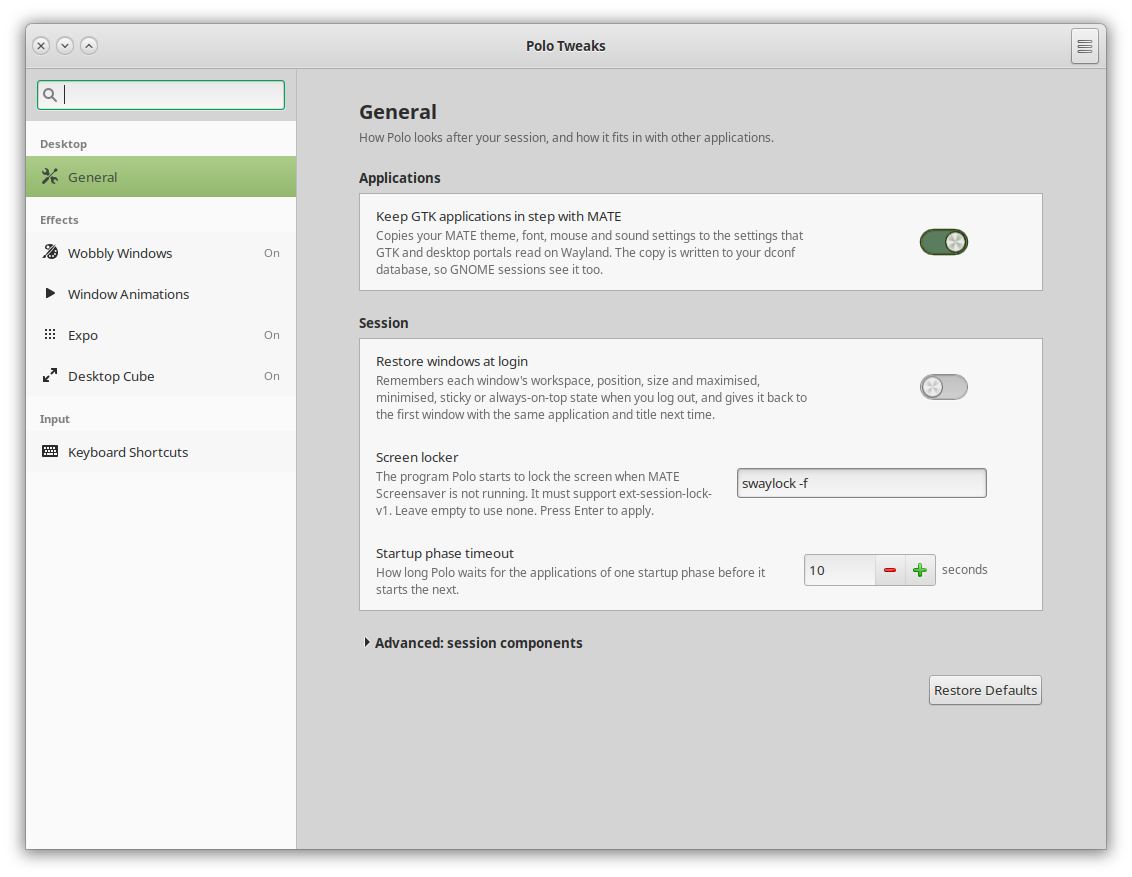
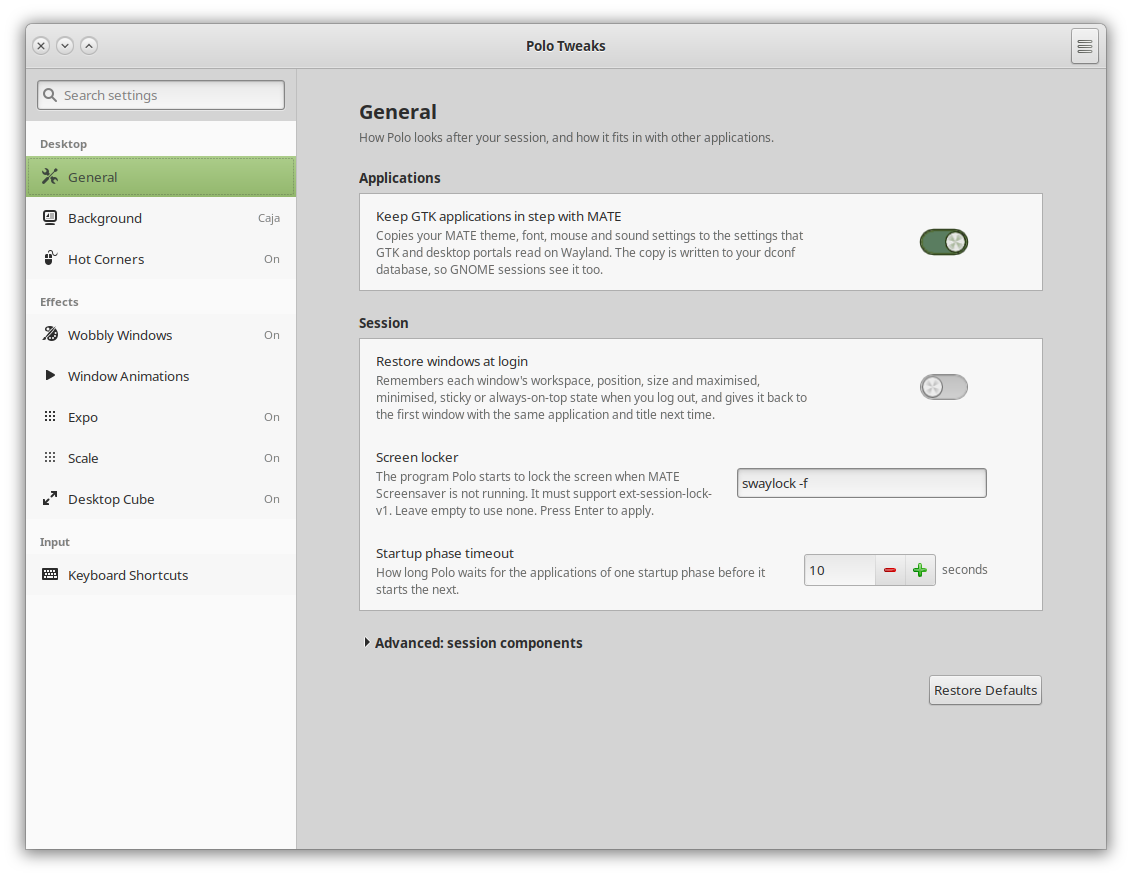
docs: update readme

diff --git a/README.md b/README.md
@@ -1,6 +1,9 @@
-# Polo Tweaks
+<h1 align="center">
+  <img src="./icon.svg" width="48" align="center" alt="Polo Tweaks icon">
+  Polo Tweaks
+</h1>
 
-A settings program for [Polo](https://github.com/keremsoke/polo). It edits every key of Polo's four GSettings schemas:
+A settings program for [Polo](https://github.com/keremsoke/polo). 
 
 ![Polo Tweaks Window](./polo-tweaks.png)
 
